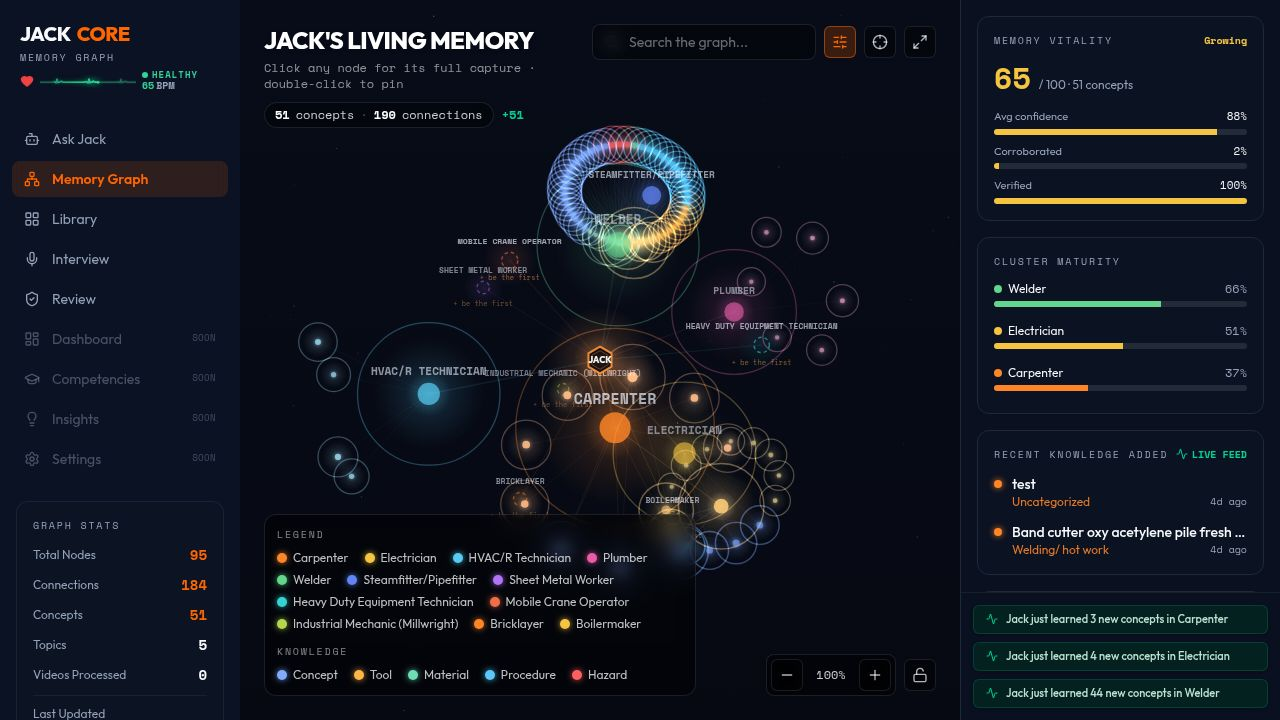
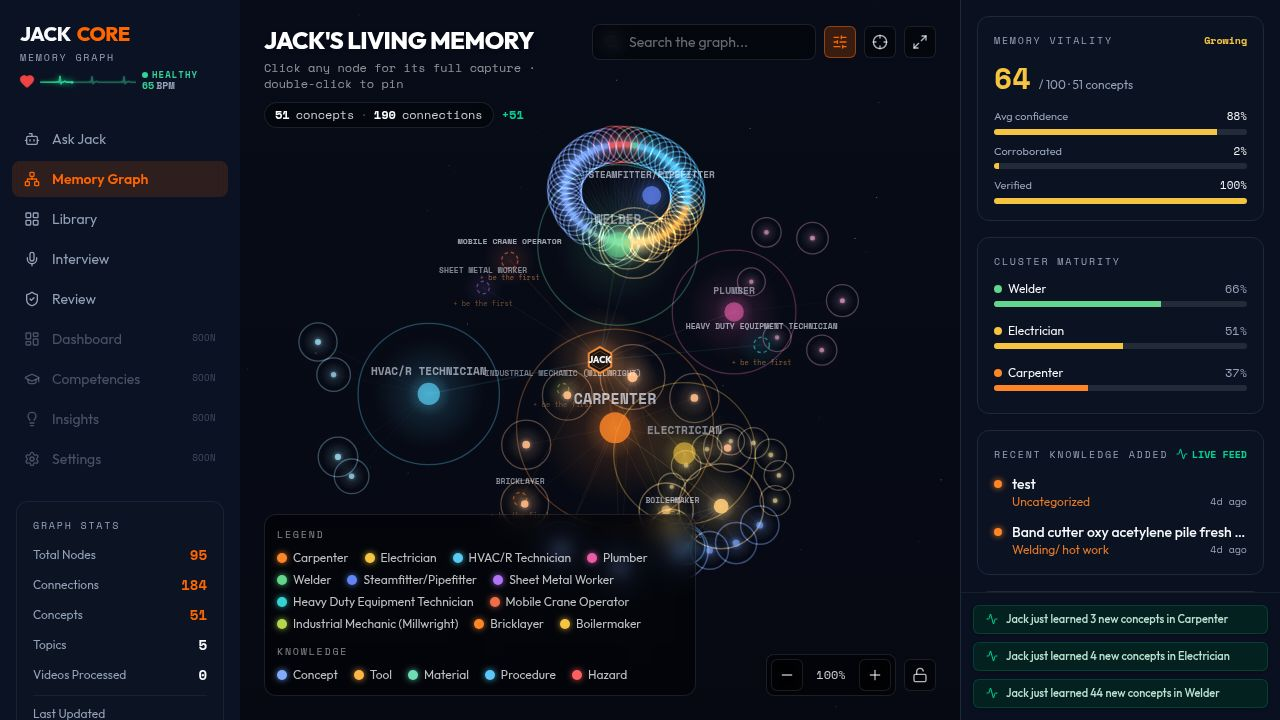
Task #109: Surface trust badges on Ask Jack citations
Show why an answer is trustworthy right in chat. Builds on merged
Task #34, which already computes per-segment trust in the reranker.

Changes:
- lib/api-spec/openapi.yaml: Citation schema gains two OPTIONAL fields,
  `verified` (boolean) and `sourceCount` (integer). Additive/backward-
  compatible — old stored citations still parse, old clients ignore them.
  Ran codegen (Orval hooks + Zod regenerated).
- artifacts/api-server/src/routes/chat.ts: the video-citation loop now
  populates `verified` (= verification === "verified") and `sourceCount`
  from the same rerank result describeTrust() already uses. Knowledge
  citations intentionally leave them unset (not reranked → neutral).
- artifacts/jack-core/src/components/StructuredAnswer.tsx: new TrustBadges
  subcomponent renders a subtle emerald "Mentor-verified" pill (verified)
  and/or sky "Confirmed across N videos" pill (sourceCount >= 2) on video
  citations; returns null otherwise so neutral citations look unchanged.

Verification: full `pnpm run typecheck` green; api-server 220/220 and
jack-core 85/85 tests pass; architect review PASS (no blocking issues).
Live e2e confirmed knowledge citations render unchanged with no badge;
the video-badge path can't be exercised here (0 processed videos) but is
covered by the architect's source-level trace and the reranker's tests.

Skipped the architect's optional route-level unit test per the project's
ship-focused preference (trivial two-field mapping; rerank already tested).

diff --git a/artifacts/jack-core/src/components/StructuredAnswer.tsx b/artifacts/jack-core/src/components/StructuredAnswer.tsx
@@ -6,6 +6,8 @@ import {
   ChevronUp,
   FileText,
   ShieldAlert,
+  ShieldCheck,
+  CheckCheck,
   Wrench,
   Package,
   Lightbulb,
@@ -60,6 +62,31 @@ const TONE_CLASSES: Record<string, string> = {
   medium: "bg-amber-500/15 text-amber-400 border-amber-500/30",
   low: "bg-zinc-500/15 text-zinc-300 border-zinc-500/30",
 };
+
+// Subtle per-citation trust badges. Rendered only when a citation carries a
+// trust signal from retrieval: `verified` = a mentor reviewer confirmed a
+// covering concept; `sourceCount` >= 2 = the claim is corroborated across that
+// many videos. Neutral/untrusted citations render nothing (return null).
+function TrustBadges({ verified, sourceCount }: { verified?: boolean; sourceCount?: number | null }) {
+  const corroborated = typeof sourceCount === "number" && sourceCount >= 2;
+  if (!verified && !corroborated) return null;
+  return (
+    <div className="flex flex-wrap items-center gap-1.5">
+      {verified && (
+        <span className="inline-flex items-center gap-1 rounded-full border border-emerald-500/30 bg-emerald-500/15 px-2 py-0.5 text-[9px] font-mono uppercase tracking-wider text-emerald-400">
+          <ShieldCheck className="h-3 w-3 flex-shrink-0" />
+          Mentor-verified
+        </span>
+      )}
+      {corroborated && (
+        <span className="inline-flex items-center gap-1 rounded-full border border-sky-500/30 bg-sky-500/15 px-2 py-0.5 text-[9px] font-mono uppercase tracking-wider text-sky-300">
+          <CheckCheck className="h-3 w-3 flex-shrink-0" />
+          Confirmed across {sourceCount} videos
+        </span>
+      )}
+    </div>
+  );
+}
 
 function Runs({ runs }: { runs: Run[] }) {
   return (
@@ -253,6 +280,7 @@ export function StructuredAnswer({
                     {c.text && <div className="mt-0.5 line-clamp-1 text-[11px] text-muted-foreground">{c.text}</div>}
                   </div>
                 </div>
+                <TrustBadges verified={c.verified} sourceCount={c.sourceCount} />
                 <button
                   type="button"
                   onClick={() => onCitationClick(c.videoId, c.startTime)}

diff --git a/artifacts/api-server/src/routes/chat.ts b/artifacts/api-server/src/routes/chat.ts
@@ -71,6 +71,8 @@ router.post("/chat", aiQueryLimiter, async (req, res) => {
       thumbnailUrl: string | null;
       sourceType: "video" | "knowledge";
       entryId?: string;
+      verified?: boolean;
+      sourceCount?: number;
     }> = [];
 
     let contextText = "";
@@ -117,6 +119,11 @@ router.post("/chat", aiQueryLimiter, async (req, res) => {
         text: seg["text"] as string,
         thumbnailUrl: (seg["thumbnail_url"] as string | null) ?? null,
         sourceType: "video",
+        // Surface the trust signal the reranker already computed so the client
+        // can badge it. `verified` = a reviewer confirmed a covering concept;
+        // `sourceCount` = distinct corroborating videos (client badges ≥2).
+        verified: verification === "verified",
+        sourceCount,
       });
     }
 